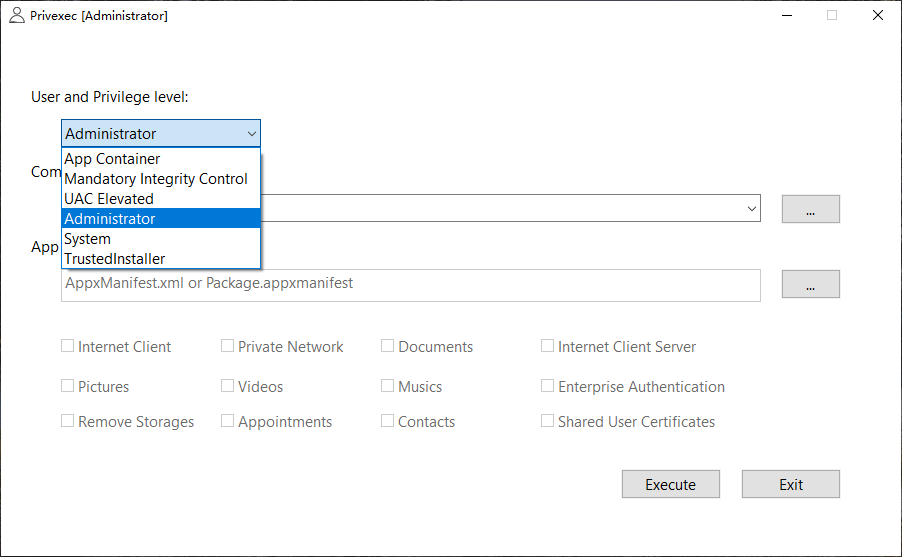
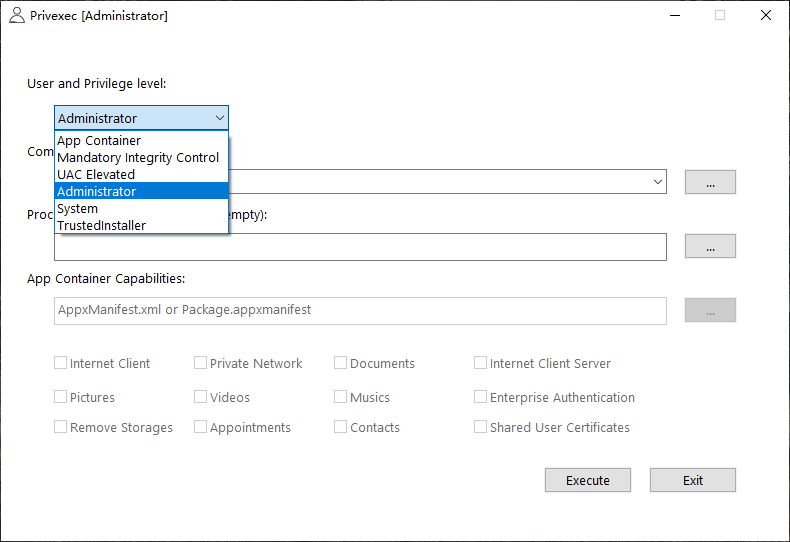
fix appcontainer switch button state

diff --git a/Privexec/main.cpp b/Privexec/main.cpp
@@ -246,6 +246,7 @@ INT_PTR WINAPI ApplicationProc(HWND hWndDlg, UINT message, WPARAM wParam,
                  L"AppxManifest.xml or Package.appxmanifest");
     EnableWindow(GetDlgItem(hWndDlg, IDE_APPCONTAINER_APPMANIFEST),
                  FALSE); // Disable AppContainer SID
+    EnableWindow(GetDlgItem(hWndDlg, IDB_APPCONTAINER_BUTTON), FALSE);
     InitializeCapabilities(hWndDlg);
     ChangeCapabilitiesVisible(false);
     return 0;
@@ -276,12 +277,14 @@ INT_PTR WINAPI ApplicationProc(HWND hWndDlg, UINT message, WPARAM wParam,
                              0, 0);
         if (N == kAppContainer) {
           EnableWindow(GetDlgItem(hWndDlg, IDE_APPCONTAINER_APPMANIFEST), TRUE);
+          EnableWindow(GetDlgItem(hWndDlg, IDB_APPCONTAINER_BUTTON), TRUE);
           SetWindowTextW(GetDlgItem(hWndDlg, IDE_APPCONTAINER_APPMANIFEST),
                          L"");
           ChangeCapabilitiesVisible(true);
         } else {
           EnableWindow(GetDlgItem(hWndDlg, IDE_APPCONTAINER_APPMANIFEST),
                        FALSE);
+          EnableWindow(GetDlgItem(hWndDlg, IDB_APPCONTAINER_BUTTON), FALSE);
           SetWindowTextW(GetDlgItem(hWndDlg, IDE_APPCONTAINER_APPMANIFEST),
                          L"AppxManifest.xml or Package.appxmanifest");
           ChangeCapabilitiesVisible(false);

diff --git a/ReadMe.md b/ReadMe.md
@@ -59,6 +59,8 @@ wsudo:
 
 Privexec is a GUI client, Your can run as administrator (no administrator), System and TrustedInstaller require administrator!!!
 
+Command and Process startup directory support `ExpandEnvironmentString`.
+
 wsudo is a console command client
 
 **wsudo usage:**
